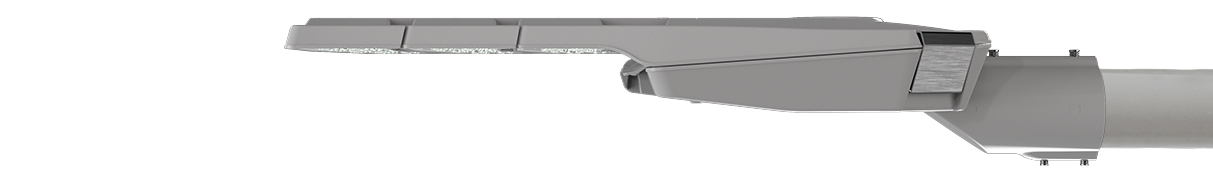
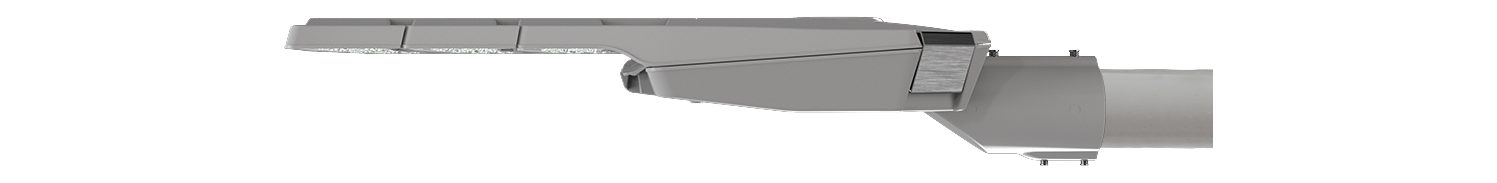
Simplify manufacturer-card IP/lumens chips; zoom Prismaspace; center VMXII
Manufacturer grid card chips:
- Fix Ingress protection chip to strip both parenthetical and
  semicolon-separated trailing detail (was only stripping after a
  comma, so it rarely trimmed anything) — this alone shortens the IP
  chip to just "IP65"/"IP66"/etc. for DPL, DSX, RLI, SLI, FTS, DWL, PEB,
  DBD, SGB and VMXII with no data changes needed.
- Add optional per-keySpec "short" override for cases the generic
  split can't handle: Prismaspace's IP chip ("IP40/IP65") and HMAO/
  Vanguard's lumens chips (drop the "across N lumen packages" suffix).
- Add optional product-level "cardExtraChips" for chips with no backing
  keySpec; used to add an IK10 chip to Vanguard's card.

Images:
- Prismaspace hero cropped tighter to match Hi-Beam/PrismaShield
  Elite's zoom level in the manufacturer card.
- VMXII hero re-centered — it was touching the canvas's right edge,
  rendering visibly off-center within the card frame.

Claude-Session: https://claude.ai/code/session_01R4sWaaqKu1iVMbbzze3tzg

Changed region(s): [[0.183, 0.082, 1.0, 0.9016], [0.3965, 0.1093, 0.427, 0.1366], [0.305, 0.1093, 0.3355, 0.1366]]

diff --git a/assets/js/main.js b/assets/js/main.js
@@ -256,9 +256,10 @@
       var ip = p.keySpecs.find(function (s) { return s.label === "Ingress protection"; });
       var cct = p.keySpecs.find(function (s) { return s.label === "Colour temperature"; });
       var chips = [];
-      if (lumens) chips.push(lumens.value.split("(")[0].trim());
-      if (cct) chips.push(cct.value.split("(")[0].trim());
-      if (ip) chips.push(ip.value.split(",")[0].trim());
+      if (lumens) chips.push(lumens.short || lumens.value.split("(")[0].trim());
+      if (cct) chips.push(cct.short || cct.value.split("(")[0].trim());
+      if (ip) chips.push(ip.short || ip.value.split("(")[0].split(";")[0].trim());
+      if (p.cardExtraChips) chips.push.apply(chips, p.cardExtraChips);
       return (
         '<a class="product-card" href="' + base + 'products/product.html?code=' + encodeURIComponent(p.code) + '">' +
           '<div class="product-card__frame">' +
